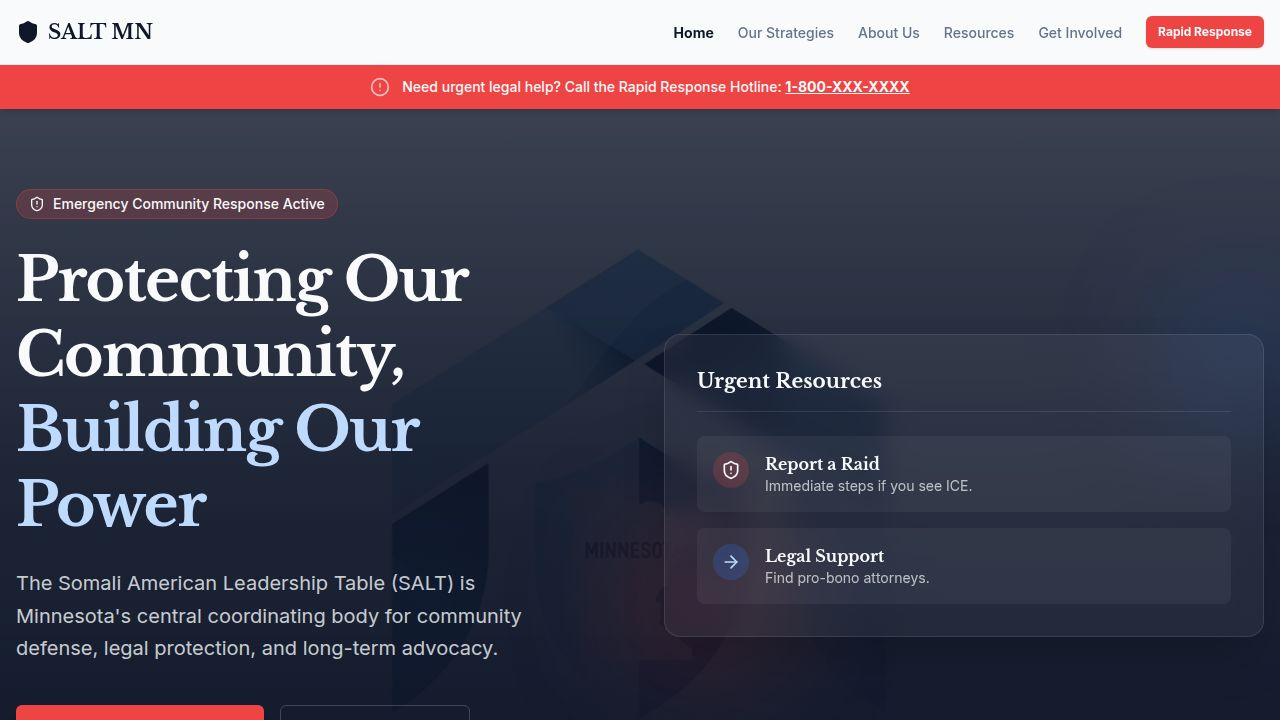
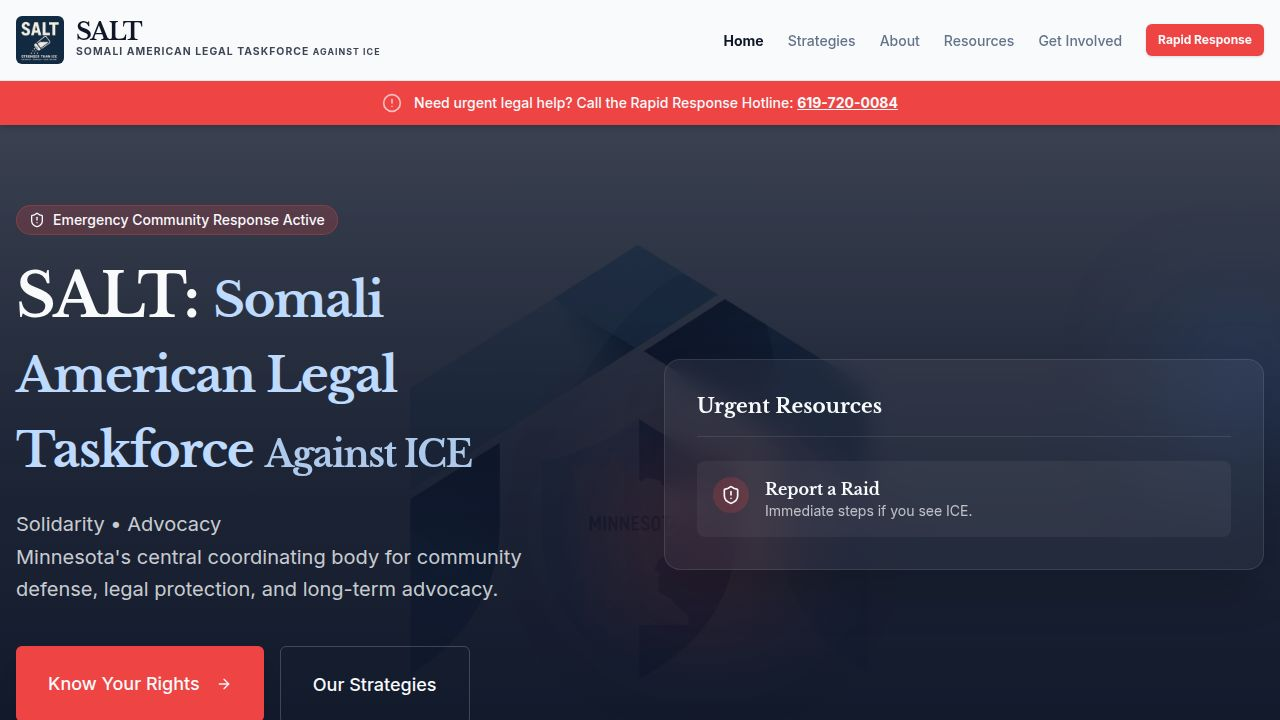
Update site to remove financial and legal support sections and add WhatsApp integration Add a new anonymous raid alert board and update contact information.
Replit-Commit-Author: Agent
Replit-Commit-Session-Id: 74140ec6-e5bb-4524-bc9c-119eed435e73
Replit-Commit-Checkpoint-Type: full_checkpoint
Replit-Commit-Event-Id: 1c049f81-f155-43d0-88f5-4dacfdbbe6db
Replit-Commit-Screenshot-Url: https://storage.googleapis.com/screenshot-production-us-central1/349ea6e0-3c11-4f86-91cf-9de67a7e6971/74140ec6-e5bb-4524-bc9c-119eed435e73/jDxqLPU
Replit-Helium-Checkpoint-Created: true

diff --git a/client/src/components/raid-alert-board.tsx b/client/src/components/raid-alert-board.tsx
@@ -1,0 +1,136 @@
+import { useState } from "react";
+import { Button } from "@/components/ui/button";
+import { Input } from "@/components/ui/input";
+import { Card, CardHeader, CardTitle, CardContent } from "@/components/ui/card";
+import { Badge } from "@/components/ui/badge";
+import { MapPin, Clock, AlertTriangle, Send } from "lucide-react";
+import { useToast } from "@/hooks/use-toast";
+
+interface RaidReport {
+  id: number;
+  location: string;
+  time: string;
+  description: string;
+  verified: boolean;
+}
+
+const initialReports: RaidReport[] = [
+  {
+    id: 1,
+    location: "Lake Street & Hiawatha Ave",
+    time: "2 hours ago",
+    description: "Unmarked SUV seen idling near the intersection. Two officers visible.",
+    verified: false,
+  },
+  {
+    id: 2,
+    location: "Cedar-Riverside Area",
+    time: "Yesterday, 4:00 PM",
+    description: "ICE agents confirmed entering apartment complex.",
+    verified: true,
+  }
+];
+
+export function RaidAlertBoard() {
+  const [reports, setReports] = useState<RaidReport[]>(initialReports);
+  const [newLocation, setNewLocation] = useState("");
+  const [newDescription, setNewDescription] = useState("");
+  const { toast } = useToast();
+
+  const handleSubmit = (e: React.FormEvent) => {
+    e.preventDefault();
+    if (!newLocation || !newDescription) return;
+
+    const newReport: RaidReport = {
+      id: Date.now(),
+      location: newLocation,
+      time: "Just now",
+      description: newDescription,
+      verified: false,
+    };
+
+    setReports([newReport, ...reports]);
+    setNewLocation("");
+    setNewDescription("");
+    
+    toast({
+      title: "Report Submitted",
+      description: "Your report has been added to the community board anonymously.",
+    });
+  };
+
+  return (
+    <div className="grid md:grid-cols-2 gap-8">
+      {/* Alert Board */}
+      <Card className="border-destructive/20 shadow-lg">
+        <CardHeader className="bg-destructive/5 border-b border-destructive/10">
+          <div className="flex items-center justify-between">
+            <CardTitle className="flex items-center gap-2 text-destructive">
+              <AlertTriangle className="h-5 w-5" />
+              Recent Activity Alerts
+            </CardTitle>
+            <Badge variant="outline" className="animate-pulse border-destructive text-destructive">
+              Live Updates
+            </Badge>
+          </div>
+        </CardHeader>
+        <CardContent className="p-0 max-h-[400px] overflow-y-auto">
+          <div className="divide-y">
+            {reports.map((report) => (
+              <div key={report.id} className="p-4 hover:bg-muted/20 transition-colors">
+                <div className="flex justify-between items-start mb-2">
+                  <div className="flex items-center gap-1.5 font-bold text-sm">
+                    <MapPin className="h-3.5 w-3.5 text-muted-foreground" />
+                    {report.location}
+                  </div>
+                  <span className="text-xs text-muted-foreground flex items-center gap-1">
+                    <Clock className="h-3 w-3" /> {report.time}
+                  </span>
+                </div>
+                <p className="text-sm text-foreground/90 mb-2">{report.description}</p>
+                {report.verified && (
+                  <Badge variant="secondary" className="bg-blue-100 text-blue-700 hover:bg-blue-100 h-5 text-[10px]">
+                    Verified Report
+                  </Badge>
+                )}
+              </div>
+            ))}
+          </div>
+        </CardContent>
+      </Card>
+
+      {/* Report Form */}
+      <Card>
+        <CardHeader>
+          <CardTitle>Report ICE Activity</CardTitle>
+          <p className="text-sm text-muted-foreground">
+            Submissions are <span className="font-bold text-primary">anonymous</span>. Do not include personal names.
+          </p>
+        </CardHeader>
+        <CardContent>
+          <form onSubmit={handleSubmit} className="space-y-4">
+            <div className="space-y-2">
+              <label className="text-sm font-medium">Location</label>
+              <Input 
+                placeholder="e.g. Karmel Mall, Lake St..." 
+                value={newLocation}
+                onChange={(e) => setNewLocation(e.target.value)}
+              />
+            </div>
+            <div className="space-y-2">
+              <label className="text-sm font-medium">What did you see?</label>
+              <Input 
+                placeholder="Describe vehicles, uniforms, or activity..." 
+                value={newDescription}
+                onChange={(e) => setNewDescription(e.target.value)}
+              />
+            </div>
+            <Button type="submit" className="w-full bg-destructive hover:bg-destructive/90 font-bold">
+              <Send className="w-4 h-4 mr-2" /> Post Alert Anonymously
+            </Button>
+          </form>
+        </CardContent>
+      </Card>
+    </div>
+  );
+}

diff --git a/client/src/pages/home.tsx b/client/src/pages/home.tsx
@@ -5,8 +5,10 @@ import { StrategyCard } from "@/components/strategy-card";
 import { strategies } from "@/lib/data";
 import { Button } from "@/components/ui/button";
 import { Link } from "wouter";
-import { ArrowRight } from "lucide-react";
+import { ArrowRight, MessageCircle } from "lucide-react";
 import partnerLogos from "@assets/IMG_20251213_202744_1765689144733.png";
+import whatsappQr from "@assets/1000073020_1765851557136.jpg";
+import { RaidAlertBoard } from "@/components/raid-alert-board";
 
 export default function Home() {
   return (
@@ -14,8 +16,41 @@ export default function Home() {
       <RapidResponseAlert />
       <Hero />
       
+      {/* Raid Alert & WhatsApp Section */}
+      <section className="py-16 bg-background">
+        <div className="container mx-auto px-4">
+          <div className="grid lg:grid-cols-3 gap-12">
+            {/* WhatsApp Column */}
+            <div className="lg:col-span-1 bg-emerald-50 border border-emerald-100 rounded-2xl p-8 text-center">
+              <div className="bg-white p-4 rounded-xl shadow-sm inline-block mb-6">
+                <img src={whatsappQr} alt="Join WhatsApp Group" className="w-48 h-48 object-cover" />
+              </div>
+              <h3 className="text-2xl font-bold text-emerald-900 mb-2">Join the Alert Network</h3>
+              <p className="text-emerald-800/80 mb-6">
+                Get real-time verified updates and share critical information with the community.
+              </p>
+              <a 
+                href="https://chat.whatsapp.com/DCkKgQ1frZNGTRYznYB4Jk" 
+                target="_blank" 
+                rel="noopener noreferrer"
+              >
+                <Button className="w-full bg-[#25D366] hover:bg-[#128C7E] text-white font-bold gap-2">
+                  <MessageCircle className="w-5 h-5" />
+                  Join WhatsApp Group
+                </Button>
+              </a>
+            </div>
+
+            {/* Raid Alert Board */}
+            <div className="lg:col-span-2">
+              <RaidAlertBoard />
+            </div>
+          </div>
+        </div>
+      </section>
+
       {/* Strategies Grid */}
-      <section className="py-20 bg-background">
+      <section className="py-20 bg-muted/20">
         <div className="container mx-auto px-4">
           <div className="text-center max-w-3xl mx-auto mb-16">
             <h2 className="text-3xl md:text-4xl font-serif font-bold text-primary mb-4">
@@ -78,7 +113,7 @@ export default function Home() {
         <div className="container mx-auto px-4 max-w-2xl">
           <h2 className="text-3xl font-serif font-bold mb-6">Stand With Us</h2>
           <p className="text-primary-foreground/80 mb-8 text-lg">
-            Whether you need help, want to volunteer, or can donate to the legal fund, your involvement strengthens our community shield.
+            Whether you need help or want to volunteer, your involvement strengthens our community shield.
           </p>
           <div className="flex flex-col sm:flex-row justify-center gap-4">
              <Link href="/contact">

diff --git a/client/src/pages/resources.tsx b/client/src/pages/resources.tsx
@@ -18,8 +18,10 @@ export default function Resources() {
             <Button size="lg" variant="secondary" className="gap-2 font-bold text-destructive">
               <Download className="w-4 h-4" /> Download Wallet Pass
             </Button>
-            <Button size="lg" variant="outline" className="gap-2 border-white/40 hover:bg-white/10 text-white">
-              <Phone className="w-4 h-4" /> Save Hotline Number
+            <Button size="lg" variant="outline" className="gap-2 border-white/40 hover:bg-white/10 text-white" asChild>
+              <a href="tel:6197200084">
+                <Phone className="w-4 h-4" /> Call 619-720-0084
+              </a>
             </Button>
           </div>
         </div>
@@ -70,21 +72,15 @@ export default function Resources() {
         {/* Resources Grid */}
         <div className="mt-20">
           <h2 className="text-2xl font-serif font-bold text-primary mb-8 text-center">Community Resources</h2>
-          <div className="grid md:grid-cols-3 gap-6">
-            <Card className="bg-blue-50 border-blue-100">
-               <CardContent className="pt-6">
-                 <Shield className="w-8 h-8 text-blue-600 mb-4" />
-                 <h3 className="font-bold text-lg mb-2">Legal Defense Fund</h3>
-                 <p className="text-sm text-muted-foreground mb-4">Financial support for legal representation in immigration cases.</p>
-                 <Button variant="link" className="p-0 h-auto text-blue-700">Access Fund &rarr;</Button>
-               </CardContent>
-            </Card>
+          <div className="grid md:grid-cols-2 gap-6 max-w-4xl mx-auto">
             <Card className="bg-emerald-50 border-emerald-100">
                <CardContent className="pt-6">
                  <MessageSquare className="w-8 h-8 text-emerald-600 mb-4" />
                  <h3 className="font-bold text-lg mb-2">WhatsApp Alerts</h3>
                  <p className="text-sm text-muted-foreground mb-4">Join the verified community alert channel for real-time updates.</p>
-                 <Button variant="link" className="p-0 h-auto text-emerald-700">Join Channel &rarr;</Button>
+                 <Button variant="link" className="p-0 h-auto text-emerald-700" asChild>
+                   <a href="https://chat.whatsapp.com/DCkKgQ1frZNGTRYznYB4Jk" target="_blank" rel="noopener noreferrer">Join Channel &rarr;</a>
+                 </Button>
                </CardContent>
             </Card>
             <Card className="bg-amber-50 border-amber-100">

diff --git a/client/src/components/layout.tsx b/client/src/components/layout.tsx
@@ -26,7 +26,9 @@ export function Layout({ children }: { children: React.ReactNode }) {
               <img src={saltLogo} alt="SALT Logo" className="h-12 w-auto rounded-md" />
               <div className="flex flex-col">
                 <span className="font-serif font-black text-2xl tracking-tighter leading-none text-primary">SALT</span>
-                <span className="text-[0.65rem] font-bold tracking-widest text-primary/80 uppercase">Stronger Than ICE</span>
+                <span className="text-[0.65rem] font-bold tracking-widest text-primary/80 uppercase">
+                  Somali American Legal Taskforce <span className="text-[0.55rem]">Against ICE</span>
+                </span>
               </div>
             </a>
           </Link>
@@ -97,7 +99,9 @@ export function Layout({ children }: { children: React.ReactNode }) {
                <img src={saltLogo} alt="SALT Logo" className="h-10 w-auto bg-white/10 rounded p-1" />
                <div>
                  <h3 className="font-serif text-xl font-bold leading-none">SALT</h3>
-                 <p className="text-[0.6rem] tracking-wider opacity-80 uppercase">Solidarity • Advocacy • Legal Support</p>
+                 <p className="text-[0.6rem] tracking-wider opacity-80 uppercase">
+                   Somali American Legal Taskforce <span className="text-[0.5rem]">Against ICE</span>
+                 </p>
                </div>
             </div>
             <p className="text-sm text-primary-foreground/80 leading-relaxed max-w-xs">
@@ -120,8 +124,7 @@ export function Layout({ children }: { children: React.ReactNode }) {
             </p>
             <div className="bg-destructive/10 border border-destructive/20 p-4 rounded text-center">
               <p className="font-bold text-lg text-white">Call the Hotline</p>
-              <p className="text-2xl font-mono mt-1">1-800-XXX-XXXX</p>
-              <p className="text-xs mt-2 opacity-70">(Mock Number)</p>
+              <a href="tel:6197200084" className="text-2xl font-mono mt-1 hover:underline block">619-720-0084</a>
             </div>
           </div>
         </div>

diff --git a/client/src/components/hero.tsx b/client/src/components/hero.tsx
@@ -24,11 +24,11 @@ export function Hero() {
           </div>
           
           <h1 className="text-4xl md:text-6xl font-serif font-bold leading-tight tracking-tight">
-            SALT: <span className="text-blue-200">Stronger Than ICE</span>
+            SALT: <span className="text-blue-200 block md:inline text-3xl md:text-5xl mt-2 md:mt-0">Somali American Legal Taskforce <span className="text-2xl md:text-4xl opacity-90">Against ICE</span></span>
           </h1>
           
           <p className="text-lg md:text-xl text-primary-foreground/80 max-w-xl leading-relaxed">
-            Solidarity • Advocacy • Legal Support
+            Solidarity • Advocacy
             <br className="my-2"/>
             Minnesota's central coordinating body for community defense, legal protection, and long-term advocacy.
           </p>
@@ -60,15 +60,6 @@ export function Hero() {
                 <div>
                   <h4 className="font-bold group-hover:text-blue-200 transition-colors">Report a Raid</h4>
                   <p className="text-sm opacity-70">Immediate steps if you see ICE.</p>
-                </div>
-              </li>
-              <li className="flex items-start gap-4 p-4 rounded-lg bg-white/5 hover:bg-white/10 transition-colors cursor-pointer group">
-                <div className="bg-blue-500/20 p-2 rounded-full">
-                  <ArrowRight className="w-5 h-5 text-blue-200" />
-                </div>
-                <div>
-                  <h4 className="font-bold group-hover:text-blue-200 transition-colors">Legal Support</h4>
-                  <p className="text-sm opacity-70">Find pro-bono attorneys.</p>
                 </div>
               </li>
             </ul>

diff --git a/client/src/lib/data.ts b/client/src/lib/data.ts
@@ -24,7 +24,6 @@ export const strategies = [
     description: "Legal defense, safety, and protection from ICE & profiling.",
     icon: "ShieldAlert",
     tactics: [
-      "Legal Fund",
       "Partnerships with immigration lawyers",
       "Community legal clinics",
       "Rapid legal screenings",
@@ -106,23 +105,6 @@ export const strategies = [
       "Policy researchers",
       "Advocacy team volunteers",
       "Voter mobilizers"
-    ]
-  },
-  {
-    id: 7,
-    title: "Fundraising & Resource Mobilization",
-    description: "Sustain all operations financially and materially.",
-    icon: "HeartHandshake",
-    tactics: [
-      "Fundraising campaigns",
-      "Mosque collections",
-      "Donor outreach",
-      "Events & community galas"
-    ],
-    roles: [
-      "Donor outreach team",
-      "Event planners",
-      "Grant writers"
     ]
   },
   {

diff --git a/client/src/components/rapid-response-alert.tsx b/client/src/components/rapid-response-alert.tsx
@@ -6,7 +6,7 @@ export function RapidResponseAlert() {
       <div className="container mx-auto flex items-center justify-center gap-3 text-sm font-medium text-center">
         <AlertCircle className="w-5 h-5 shrink-0 animate-pulse" />
         <p>
-          Need urgent legal help? Call the Rapid Response Hotline: <span className="font-bold underline">1-800-XXX-XXXX</span>
+          Need urgent legal help? Call the Rapid Response Hotline: <a href="tel:6197200084" className="font-bold underline hover:text-white">619-720-0084</a>
         </p>
       </div>
     </div>

diff --git a/client/src/pages/contact.tsx b/client/src/pages/contact.tsx
@@ -118,7 +118,6 @@ export default function Contact() {
                         <SelectItem value="rapid-response">Rapid Response (Driver/Observer)</SelectItem>
                         <SelectItem value="media">Media & Storytelling</SelectItem>
                         <SelectItem value="logistics">Logistics & Events</SelectItem>
-                        <SelectItem value="fundraising">Fundraising</SelectItem>
                         <SelectItem value="general">General Support</SelectItem>
                       </SelectContent>
                     </Select>
